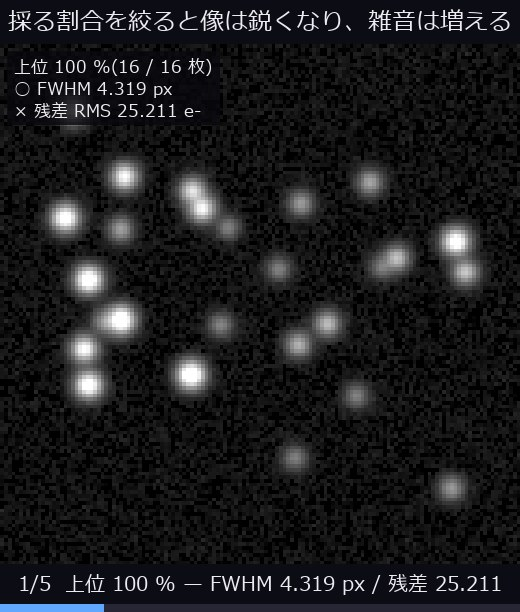
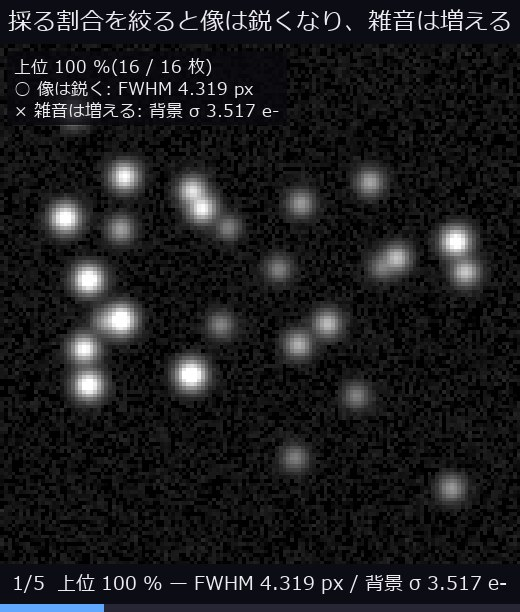
auto: gen_wingastro_gallery.py 編集前 (2026-09-02 08:02)

diff --git a/tools/gen_wingastro_gallery.py b/tools/gen_wingastro_gallery.py
@@ -1120,20 +1120,30 @@ def _captions(meta):
         "上位何 % を採るか —— 鋭さと雑音の取引",
         "How much to keep — sharpness bought with noise",
         "全部(%d 枚)から上位 %d %%(%d 枚)まで絞ると、合成後の FWHM は "
-        "%.3f -> %.3f px と **%.1f %% 良くなる**。ただし枚数が減るぶん残差 RMS は "
-        "%.3f -> %.3f e- と **%.2f 倍**に増える。lucky imaging は「改善」ではなく"
-        "**取引**であり、その両側を同じ図に出すのが正直な出し方。"
+        "%.3f -> %.3f px と **%.1f %% 良くなる**。ただし枚数が %d 分の 1 に"
+        "なるので背景の雑音 σ は %.3f -> %.3f e- と **%.2f 倍**に増える"
+        "(sqrt(%d/%d) = %.2f 倍という予測とほぼ一致)。lucky imaging は"
+        "「改善」ではなく**取引**であり、その両側を同じ図に出すのが正直な出し方。"
+        "なお雑音の指標には「真値との残差 RMS」を**使っていない** —— この実験は"
+        "わざとフレームごとに FWHM を変えているので、残差には PSF のずれまで"
+        "入ってしまい、増えたのが雑音のせいか像が変わったせいか区別できない。"
         % (r0["kept"], round(100 * rl["fraction"]), rl["kept"], r0["fwhm"],
-           rl["fwhm"], l2["fwhm_gain_pct"], r0["rms"], rl["rms"],
-           l2["rms_cost_x"]),
+           rl["fwhm"], l2["fwhm_gain_pct"], r0["kept"] // rl["kept"],
+           r0["sigma"], rl["sigma"], l2["sigma_cost_x"], r0["kept"],
+           rl["kept"], l2["sqrt_n_expected"]),
         "Going from all %d frames down to the best %d %% (%d frames) improves "
-        "the stacked FWHM from %.3f to %.3f px, **a %.1f %% gain** — and costs "
-        "a residual RMS of %.3f rising to %.3f e-, **%.2f times worse**. Lucky "
-        "imaging is a trade, not an improvement, and both sides belong in the "
-        "same figure."
+        "the stacked FWHM from %.3f to %.3f px, **a %.1f %% gain** — and, with "
+        "%dx fewer frames, costs a background noise sigma rising from %.3f to "
+        "%.3f e-, **%.2f times worse** against the sqrt(%d/%d) = %.2f the "
+        "counting predicts. Lucky imaging is a trade, not an improvement, and "
+        "both sides belong in the same figure. Note the noise is *not* measured "
+        "as the residual against the truth: this experiment deliberately varies "
+        "the per-frame FWHM, so a residual would also contain the change in the "
+        "PSF and could not tell noise from a different image."
         % (r0["kept"], round(100 * rl["fraction"]), rl["kept"], r0["fwhm"],
-           rl["fwhm"], l2["fwhm_gain_pct"], r0["rms"], rl["rms"],
-           l2["rms_cost_x"]))
+           rl["fwhm"], l2["fwhm_gain_pct"], r0["kept"] // rl["kept"],
+           r0["sigma"], rl["sigma"], l2["sigma_cost_x"], r0["kept"],
+           rl["kept"], l2["sqrt_n_expected"]))
 
     c = d["cosmic"]
     add("cosmic",

diff --git a/docs/articles/exhibits/wingastro.ja.md b/docs/articles/exhibits/wingastro.ja.md
@@ -10,7 +10,7 @@
 
 ![上位何 % を採るか —— 鋭さと雑音の取引](https://raw.githubusercontent.com/furuse-kazufumi/fullseye/master/docs/articles/assets/media/wingastro_lucky_sweep.gif)
 
-*↑ **上位何 % を採るか —— 鋭さと雑音の取引** ―― 全部(16 枚)から上位 12 %(2 枚)まで絞ると、合成後の FWHM は 4.319 -> 3.294 px と **23.7 % 良くなる**。ただし枚数が減るぶん残差 RMS は 25.211 -> 61.348 e- と **2.43 倍**に増える。lucky imaging は「改善」ではなく**取引**であり、その両側を同じ図に出すのが正直な出し方。使用 op: `lucky_select`, `sigma_clip_stack`, `frame_quality`。*
+*↑ **上位何 % を採るか —— 鋭さと雑音の取引** ―― 全部(16 枚)から上位 12 %(2 枚)まで絞ると、合成後の FWHM は 4.319 -> 3.294 px と **23.7 % 良くなる**。ただし枚数が 8 分の 1 になるので背景の雑音 σ は 3.517 -> 8.675 e- と **2.47 倍**に増える(sqrt(16/2) = 2.83 倍という予測とほぼ一致)。lucky imaging は「改善」ではなく**取引**であり、その両側を同じ図に出すのが正直な出し方。なお雑音の指標には「真値との残差 RMS」を**使っていない** —— この実験はわざとフレームごとに FWHM を変えているので、残差には PSF のずれまで入ってしまい、増えたのが雑音のせいか像が変わったせいか区別できない。使用 op: `lucky_select`, `sigma_clip_stack`, `frame_quality`。*
 
 [![宇宙線の消え方 —— 尖りで見分ける / 枚数で見分ける](https://raw.githubusercontent.com/furuse-kazufumi/fullseye/master/docs/articles/assets/wingastro_cosmic_thumb.jpg)](https://raw.githubusercontent.com/furuse-kazufumi/fullseye/master/docs/articles/assets/wingastro_cosmic.png)
 

diff --git a/docs/articles/exhibits/wingastro.en.md b/docs/articles/exhibits/wingastro.en.md
@@ -10,7 +10,7 @@
 
 ![How much to keep — sharpness bought with noise](https://raw.githubusercontent.com/furuse-kazufumi/fullseye/master/docs/articles/assets/media/wingastro_lucky_sweep.gif)
 
-*↑ **How much to keep — sharpness bought with noise** — Going from all 16 frames down to the best 12 % (2 frames) improves the stacked FWHM from 4.319 to 3.294 px, **a 23.7 % gain** — and costs a residual RMS of 25.211 rising to 61.348 e-, **2.43 times worse**. Lucky imaging is a trade, not an improvement, and both sides belong in the same figure. Ops used: `lucky_select`, `sigma_clip_stack`, `frame_quality`.*
+*↑ **How much to keep — sharpness bought with noise** — Going from all 16 frames down to the best 12 % (2 frames) improves the stacked FWHM from 4.319 to 3.294 px, **a 23.7 % gain** — and, with 8x fewer frames, costs a background noise sigma rising from 3.517 to 8.675 e-, **2.47 times worse** against the sqrt(16/2) = 2.83 the counting predicts. Lucky imaging is a trade, not an improvement, and both sides belong in the same figure. Note the noise is *not* measured as the residual against the truth: this experiment deliberately varies the per-frame FWHM, so a residual would also contain the change in the PSF and could not tell noise from a different image. Ops used: `lucky_select`, `sigma_clip_stack`, `frame_quality`.*
 
 [![How a cosmic ray disappears — by sharpness, or by counting frames](https://raw.githubusercontent.com/furuse-kazufumi/fullseye/master/docs/articles/assets/wingastro_cosmic_thumb.jpg)](https://raw.githubusercontent.com/furuse-kazufumi/fullseye/master/docs/articles/assets/wingastro_cosmic.png)
 
